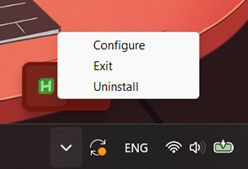
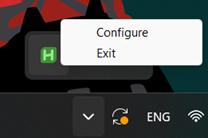
Update README

diff --git a/README.md b/README.md
@@ -1,6 +1,6 @@
 # Ableton Auto-Save
 
-This simple Windows program auto-saves the currenly open Ableton project every few minutes.
+This simple Windows program auto-saves the currently open Ableton project every few minutes.
 
 ## Features
 
@@ -10,13 +10,13 @@ This simple Windows program auto-saves the currenly open Ableton project every f
 
 ## How To Use
 
-Download and run the latest executable from the [releases page](https://github.com/PaperBag42/Ableton-Auto-Save/releases).
+Download and install the latest version from the [releases page](https://github.com/PaperBag42/Ableton-Auto-Save/releases).
 
 Configure the program however you like and press "OK". After that, the program will continue to run in the background.
 
 ![Setup Menu](_images/setup.png)
 
-If you change your mind about any of the configurations, simply right-click on the tray menu icon and choose "Configure" to change them. You can also exit or uninstall the program from this tray menu.
+If you change your mind about any of the configurations, simply right-click on the tray menu icon and choose "Configure" to change them. You can also exit the program from this tray menu.
 
 ![Tray Menu](_images/tray.png)
 
@@ -30,4 +30,4 @@ You can then choose to either stop playing audio and save, or cancel and save la
 
 ## Contributing
 
-Contributions and suggestions are welcome. To compile, install AutoHotkey and run AHK2EXE on `AbletonAutoSave.ahk`.
+Contributions and suggestions are welcome. To test your changes, install AutoHotkey and run `AbletonAutoSave.ahk`.
